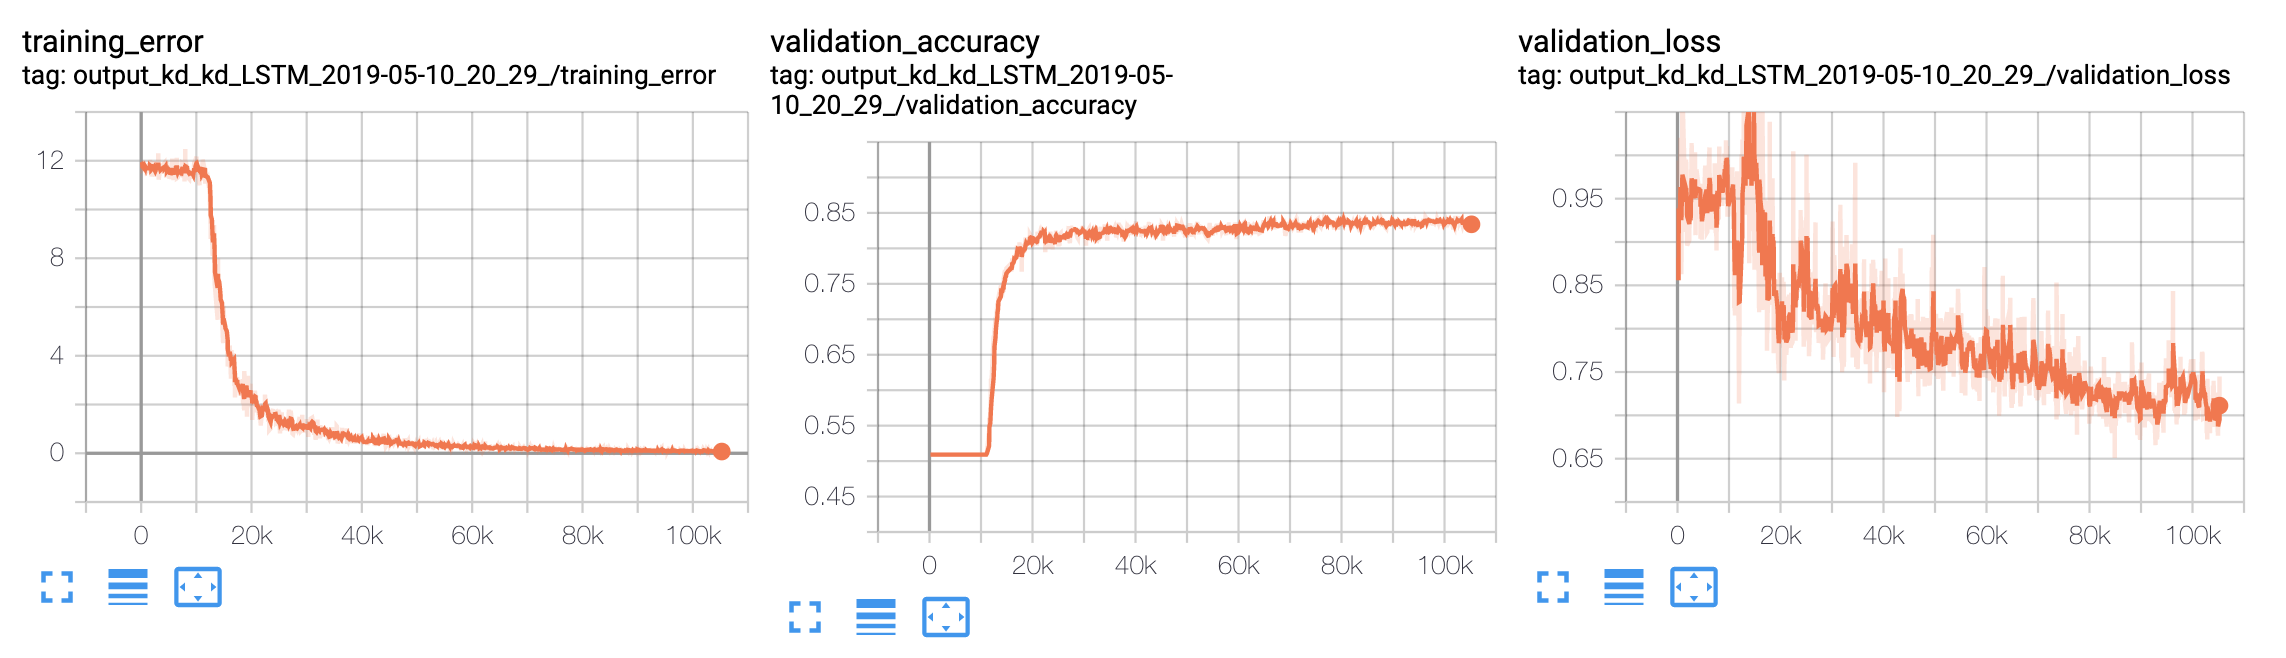
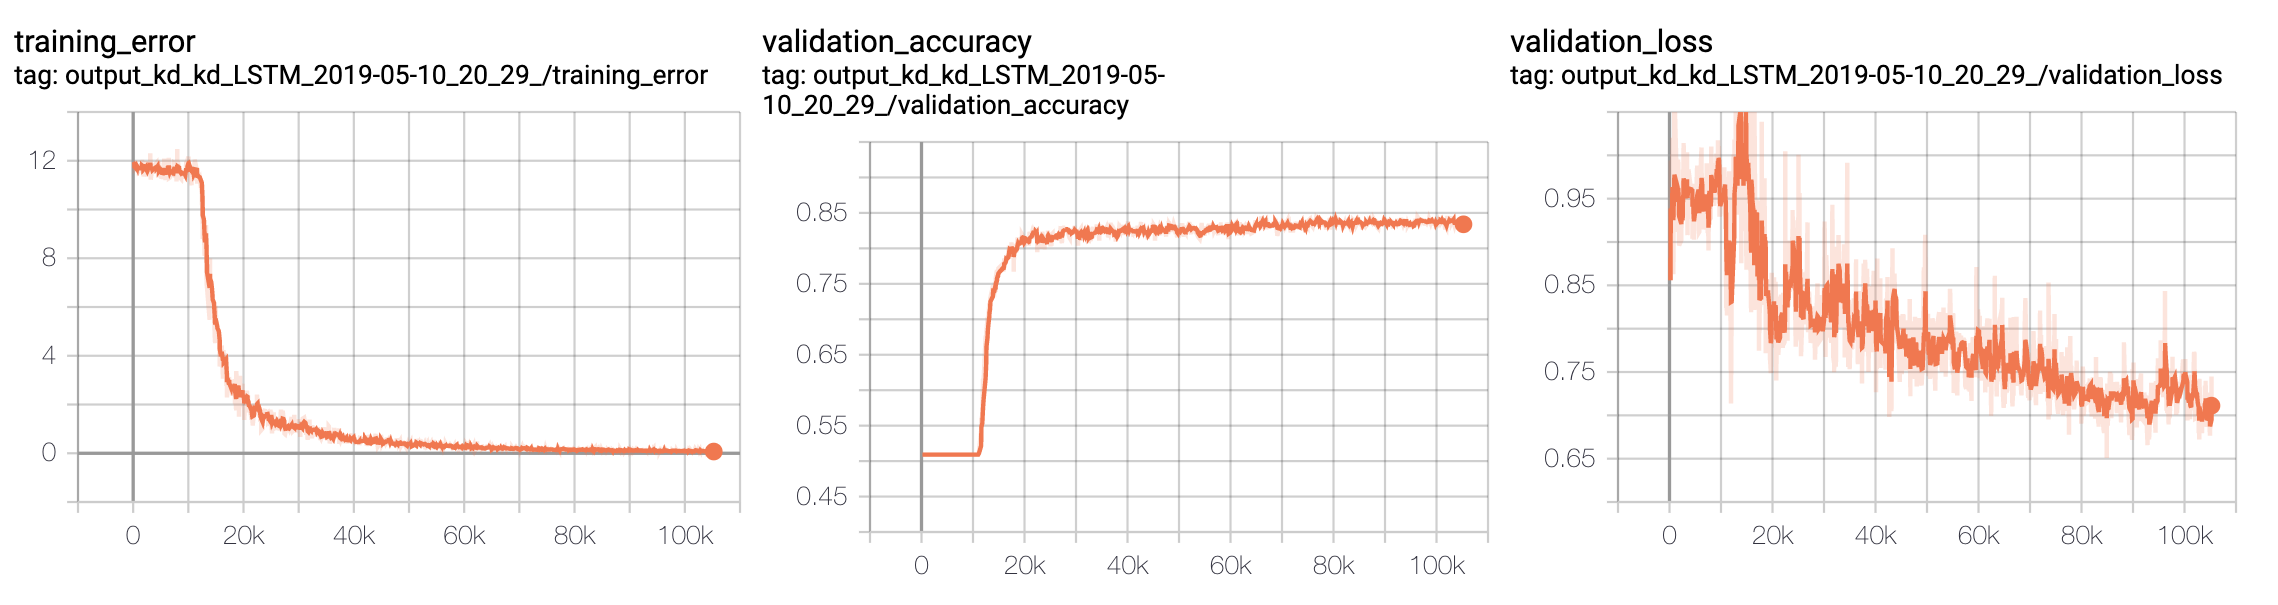
Small fixes to training loss figure

diff --git a/paper/paper.tex b/paper/paper.tex
@@ -649,7 +649,7 @@ update parameters.
 
 \begin{figure*}[tb]
 \centering
-\includegraphics{../figs/kd_lstm_training.png}
+\includegraphics[width=\textwidth]{../figs/kd_lstm_training.png}
 \caption{Training loss (left), val. loss (middle), and val. accuracy
 (right) for LSTM KD}
 \label{fig:<+label+>}
